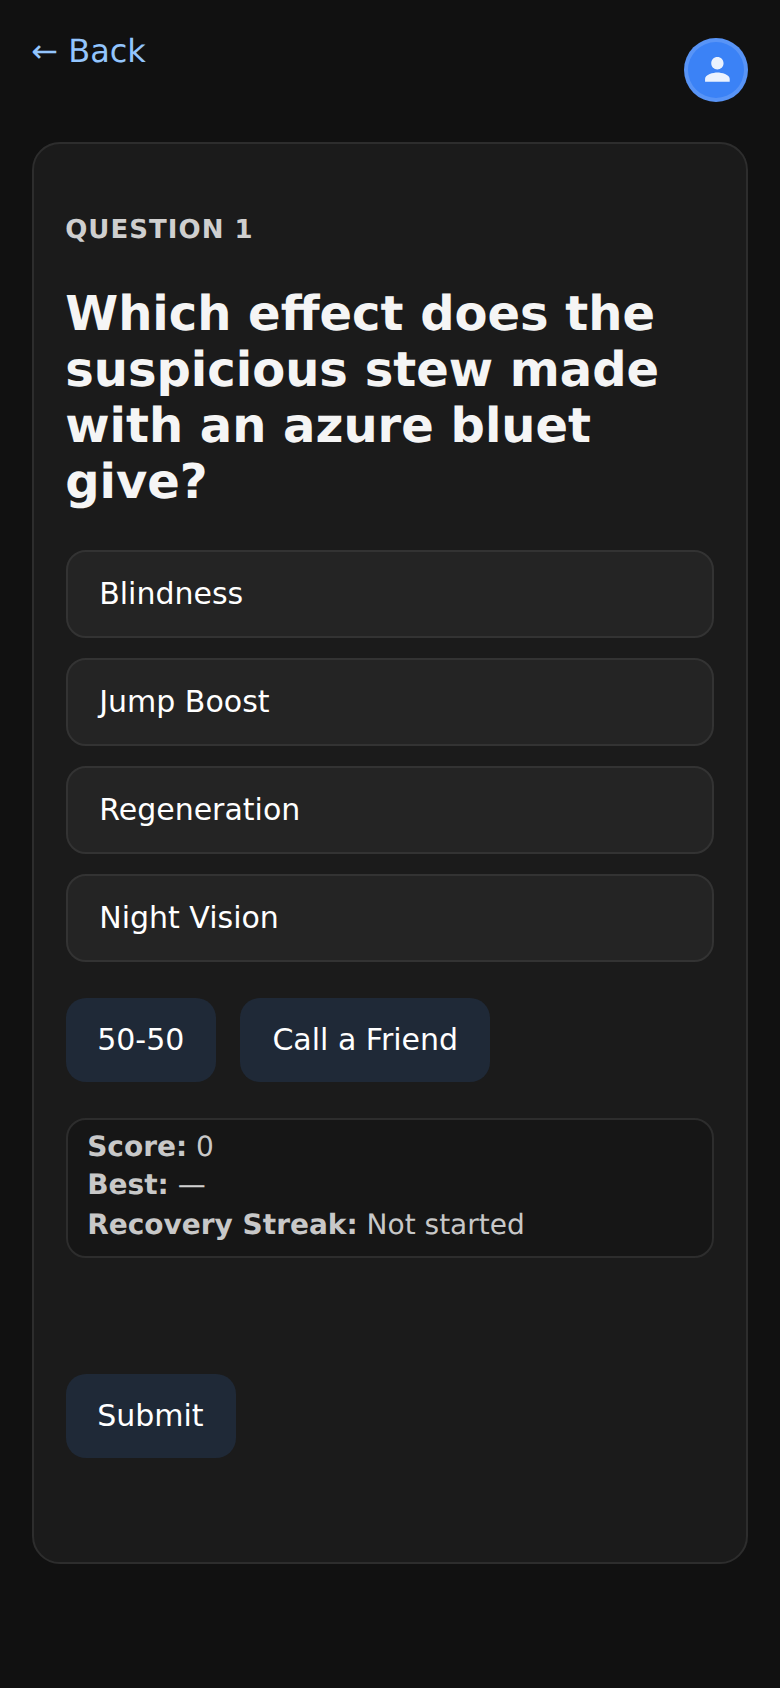
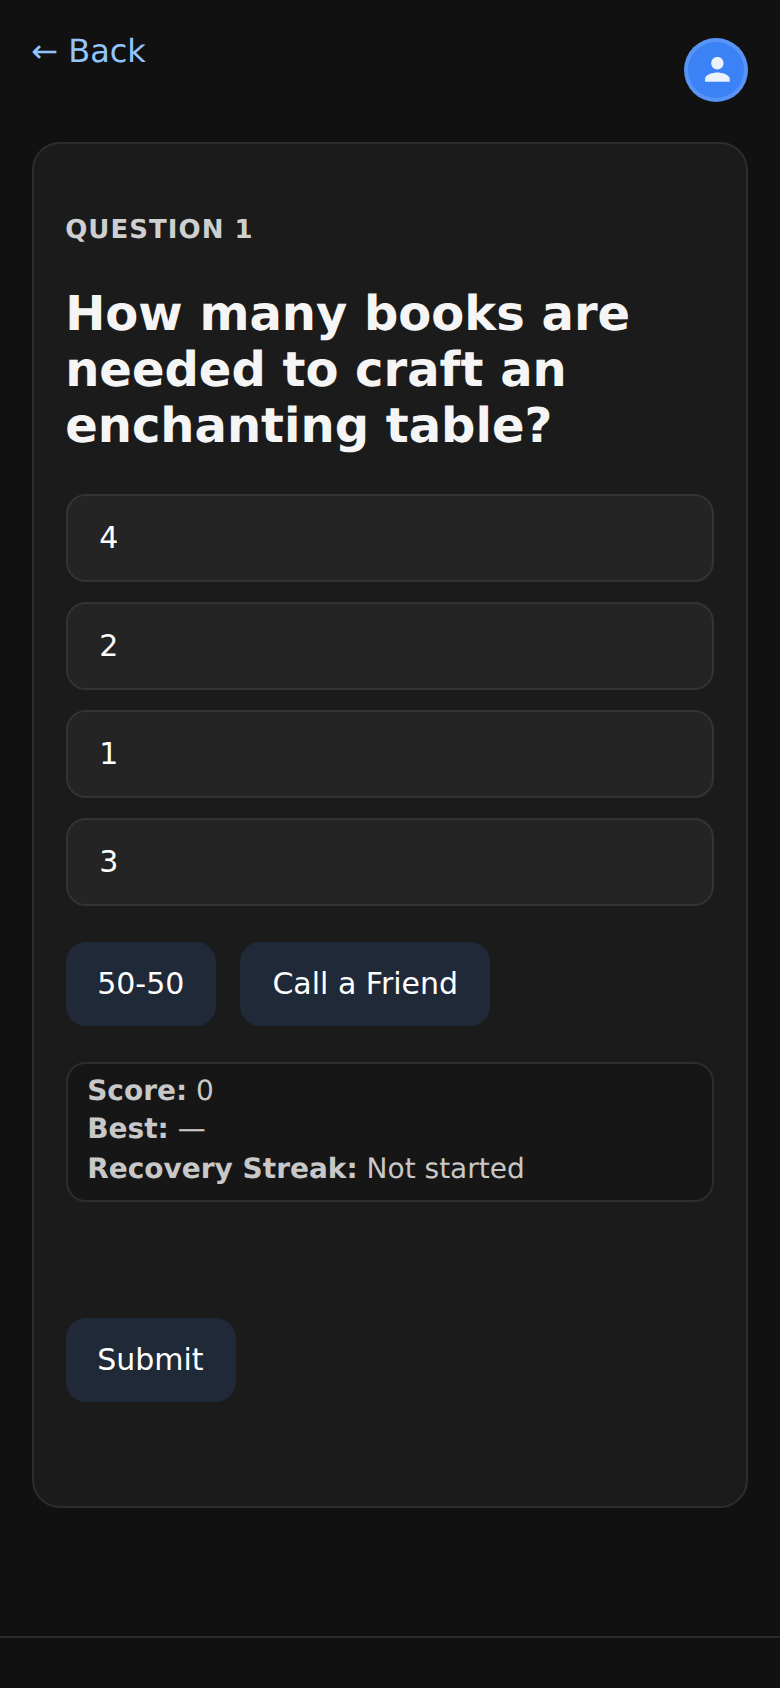
commit

Changed region(s): [[0.0615, 0.154, 0.8615, 0.7393], [0.0615, 0.7701, 0.3077, 0.8626]]

diff --git a/scripts/generate-pin.js b/scripts/generate-pin.js
@@ -27,18 +27,6 @@ async function generatePin(theme, outputPath) {
       setPal(t.palette);
       render();
 
-      // Apply gradient background to pins since no image is uploaded
-      const p = PALS[t.palette];
-      const grad = `linear-gradient(160deg, rgba(${p.base},0.55) 0%, rgba(${p.base},0.85) 50%, rgb(${p.base}) 100%)`;
-      const solidFallback = `rgb(${p.base})`;
-      [1, 2, 3].forEach(n => {
-        const pin = document.getElementById('pin' + n);
-        pin.style.background = solidFallback;
-        const bg = document.getElementById('bg' + n);
-        // Replace the blank img with a styled div gradient
-        bg.style.cssText = `position:absolute;inset:0;background:${grad};display:block;`;
-        bg.removeAttribute('src');
-      });
     }, theme);
 
     await new Promise(r => setTimeout(r, 500));